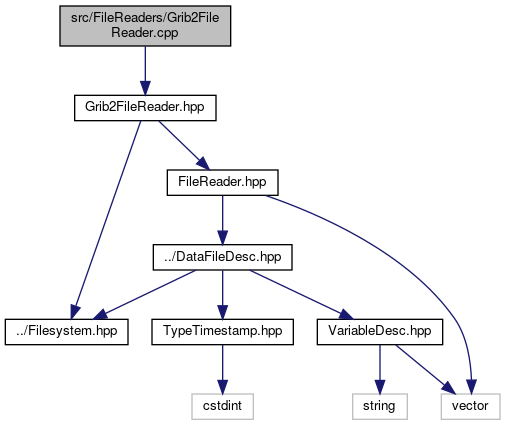
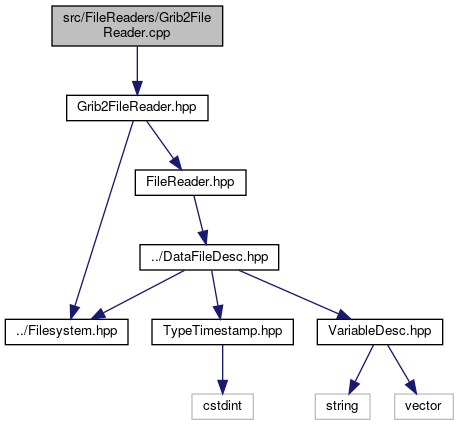
Remove useless includes

diff --git a/docs/code-docs/_n_c_file_reader_8hpp_source.html b/docs/code-docs/_n_c_file_reader_8hpp_source.html
@@ -85,18 +85,18 @@ $(document).ready(function(){initNavTree('_n_c_file_reader_8hpp_source.html','')
 <div class="title">NCFileReader.hpp</div>  </div>
 </div><!--header-->
 <div class="contents">
-<a href="_n_c_file_reader_8hpp.html">Go to the documentation of this file.</a><div class="fragment"><div class="line"><a name="l00001"></a><span class="lineno">    1</span>&#160;<span class="preprocessor">#pragma once</span></div><div class="line"><a name="l00002"></a><span class="lineno">    2</span>&#160;</div><div class="line"><a name="l00003"></a><span class="lineno">    3</span>&#160;<span class="preprocessor">#include &quot;../Filesystem.hpp&quot;</span></div><div class="line"><a name="l00004"></a><span class="lineno">    4</span>&#160;<span class="preprocessor">#include &quot;<a class="code" href="_file_reader_8hpp.html">FileReader.hpp</a>&quot;</span></div><div class="line"><a name="l00005"></a><span class="lineno">    5</span>&#160;</div><div class="line"><a name="l00006"></a><span class="lineno">    6</span>&#160;<span class="preprocessor">#include &quot;../VariableDesc.hpp&quot;</span></div><div class="line"><a name="l00007"></a><span class="lineno">    7</span>&#160;</div><div class="line"><a name="l00008"></a><span class="lineno">    8</span>&#160;<span class="preprocessor">#include &lt;iostream&gt;</span></div><div class="line"><a name="l00009"></a><span class="lineno">    9</span>&#160;</div><div class="line"><a name="l00010"></a><span class="lineno">   10</span>&#160;<span class="preprocessor">#include &lt;ncFile.h&gt;</span></div><div class="line"><a name="l00011"></a><span class="lineno">   11</span>&#160;</div><div class="line"><a name="l00012"></a><span class="lineno">   12</span>&#160;<span class="keyword">namespace </span><a class="code" href="namespacetsm.html">tsm</a> {</div><div class="line"><a name="l00013"></a><span class="lineno">   13</span>&#160;</div><div class="line"><a name="l00014"></a><span class="lineno"><a class="line" href="classtsm_1_1_n_c_file_reader.html">   14</a></span>&#160;<span class="keyword">class </span><a class="code" href="classtsm_1_1_n_c_file_reader.html">NCFileReader</a> : <span class="keyword">public</span> <a class="code" href="classtsm_1_1_file_reader.html">FileReader</a>&lt;NCFileReader&gt; {</div><div class="line"><a name="l00015"></a><span class="lineno">   15</span>&#160;</div><div class="line"><a name="l00016"></a><span class="lineno">   16</span>&#160;<span class="keyword">public</span>:</div><div class="line"><a name="l00018"></a><span class="lineno">   18</span>&#160;    <span class="keyword">explicit</span> <a class="code" href="classtsm_1_1_n_c_file_reader.html#afe8ae88886090271f4f08e64ac31796c">NCFileReader</a>(<span class="keyword">const</span> fs::path&amp; path);</div><div class="line"><a name="l00020"></a><span class="lineno"><a class="line" href="classtsm_1_1_n_c_file_reader.html#af691351ae7564772d1e5359e6214b0c8">   20</a></span>&#160;    <a class="code" href="classtsm_1_1_n_c_file_reader.html#af691351ae7564772d1e5359e6214b0c8">~NCFileReader</a>() {</div><div class="line"><a name="l00021"></a><span class="lineno">   21</span>&#160;        <a class="code" href="classtsm_1_1_n_c_file_reader.html#a5860b59f3a042eee4a4273d472736309">m_file</a>.close();</div><div class="line"><a name="l00022"></a><span class="lineno">   22</span>&#160;    }</div><div class="line"><a name="l00023"></a><span class="lineno">   23</span>&#160;</div><div class="line"><a name="l00025"></a><span class="lineno">   25</span>&#160;    [[nodiscard]] <a class="code" href="structtsm_1_1ds_1_1_data_file_desc.html">ds::DataFileDesc</a> <a class="code" href="classtsm_1_1_n_c_file_reader.html#a561db26ce7b25d3a05a313b258aaa1d8">getDataFileDesc_impl</a>();</div><div class="line"><a name="l00026"></a><span class="lineno">   26</span>&#160;</div><div class="line"><a name="l00027"></a><span class="lineno">   27</span>&#160;<span class="keyword">private</span>:</div><div class="line"><a name="l00029"></a><span class="lineno">   29</span>&#160;    [[nodiscard]] <span class="keywordtype">bool</span> <a class="code" href="classtsm_1_1_n_c_file_reader.html#a14559d462b599c6c3f5d9c4ed57d2ed1">open_file</a>();</div><div class="line"><a name="l00031"></a><span class="lineno">   31</span>&#160;    [[nodiscard]] std::string <a class="code" href="classtsm_1_1_n_c_file_reader.html#a5b162c66cf7e38895c547f41f69adec2">findTimeDim</a>() <span class="keyword">const</span>;</div><div class="line"><a name="l00033"></a><span class="lineno">   33</span>&#160;    [[nodiscard]] std::vector&lt;ds::VariableDesc&gt; <a class="code" href="classtsm_1_1_n_c_file_reader.html#adfd41c88899c811b53477791e4b715b6">getNCFileVariables</a>() <span class="keyword">const</span>;</div><div class="line"><a name="l00035"></a><span class="lineno">   35</span>&#160;    [[nodiscard]] std::vector&lt;ds::timestamp_t&gt; <a class="code" href="classtsm_1_1_n_c_file_reader.html#aba4f8bc51a05de7d66cddde18cd08f93">getTimestampValues</a>() <span class="keyword">const</span>;</div><div class="line"><a name="l00036"></a><span class="lineno">   36</span>&#160;</div><div class="line"><a name="l00037"></a><span class="lineno"><a class="line" href="classtsm_1_1_n_c_file_reader.html#ac164eede7401f24b1120711d7e878f29">   37</a></span>&#160;    <span class="keyword">const</span> fs::path <a class="code" href="classtsm_1_1_n_c_file_reader.html#ac164eede7401f24b1120711d7e878f29">m_path</a>;</div><div class="line"><a name="l00038"></a><span class="lineno"><a class="line" href="classtsm_1_1_n_c_file_reader.html#a5860b59f3a042eee4a4273d472736309">   38</a></span>&#160;    netCDF::NcFile <a class="code" href="classtsm_1_1_n_c_file_reader.html#a5860b59f3a042eee4a4273d472736309">m_file</a>;</div><div class="line"><a name="l00039"></a><span class="lineno">   39</span>&#160;};</div><div class="line"><a name="l00040"></a><span class="lineno">   40</span>&#160;</div><div class="line"><a name="l00041"></a><span class="lineno">   41</span>&#160;} <span class="comment">// namespace tsm</span></div><div class="ttc" id="classtsm_1_1_n_c_file_reader_html_a5b162c66cf7e38895c547f41f69adec2"><div class="ttname"><a href="classtsm_1_1_n_c_file_reader.html#a5b162c66cf7e38895c547f41f69adec2">tsm::NCFileReader::findTimeDim</a></div><div class="ttdeci">std::string findTimeDim() const</div><div class="ttdef"><b>Definition:</b> NCFileReader.cpp:49</div></div>
-<div class="ttc" id="classtsm_1_1_n_c_file_reader_html_a5860b59f3a042eee4a4273d472736309"><div class="ttname"><a href="classtsm_1_1_n_c_file_reader.html#a5860b59f3a042eee4a4273d472736309">tsm::NCFileReader::m_file</a></div><div class="ttdeci">netCDF::NcFile m_file</div><div class="ttdef"><b>Definition:</b> NCFileReader.hpp:38</div></div>
+<a href="_n_c_file_reader_8hpp.html">Go to the documentation of this file.</a><div class="fragment"><div class="line"><a name="l00001"></a><span class="lineno">    1</span>&#160;<span class="preprocessor">#pragma once</span></div><div class="line"><a name="l00002"></a><span class="lineno">    2</span>&#160;</div><div class="line"><a name="l00003"></a><span class="lineno">    3</span>&#160;<span class="preprocessor">#include &quot;<a class="code" href="_file_reader_8hpp.html">FileReader.hpp</a>&quot;</span></div><div class="line"><a name="l00004"></a><span class="lineno">    4</span>&#160;</div><div class="line"><a name="l00005"></a><span class="lineno">    5</span>&#160;<span class="preprocessor">#include &quot;../VariableDesc.hpp&quot;</span></div><div class="line"><a name="l00006"></a><span class="lineno">    6</span>&#160;</div><div class="line"><a name="l00007"></a><span class="lineno">    7</span>&#160;<span class="preprocessor">#include &lt;iostream&gt;</span></div><div class="line"><a name="l00008"></a><span class="lineno">    8</span>&#160;</div><div class="line"><a name="l00009"></a><span class="lineno">    9</span>&#160;<span class="preprocessor">#include &lt;ncFile.h&gt;</span></div><div class="line"><a name="l00010"></a><span class="lineno">   10</span>&#160;</div><div class="line"><a name="l00011"></a><span class="lineno">   11</span>&#160;<span class="keyword">namespace </span><a class="code" href="namespacetsm.html">tsm</a> {</div><div class="line"><a name="l00012"></a><span class="lineno">   12</span>&#160;</div><div class="line"><a name="l00013"></a><span class="lineno"><a class="line" href="classtsm_1_1_n_c_file_reader.html">   13</a></span>&#160;<span class="keyword">class </span><a class="code" href="classtsm_1_1_n_c_file_reader.html">NCFileReader</a> : <span class="keyword">public</span> <a class="code" href="classtsm_1_1_file_reader.html">FileReader</a>&lt;NCFileReader&gt; {</div><div class="line"><a name="l00014"></a><span class="lineno">   14</span>&#160;</div><div class="line"><a name="l00015"></a><span class="lineno">   15</span>&#160;<span class="keyword">public</span>:</div><div class="line"><a name="l00017"></a><span class="lineno">   17</span>&#160;    <span class="keyword">explicit</span> <a class="code" href="classtsm_1_1_n_c_file_reader.html#afe8ae88886090271f4f08e64ac31796c">NCFileReader</a>(<span class="keyword">const</span> fs::path&amp; path);</div><div class="line"><a name="l00019"></a><span class="lineno"><a class="line" href="classtsm_1_1_n_c_file_reader.html#af691351ae7564772d1e5359e6214b0c8">   19</a></span>&#160;    <a class="code" href="classtsm_1_1_n_c_file_reader.html#af691351ae7564772d1e5359e6214b0c8">~NCFileReader</a>() {</div><div class="line"><a name="l00020"></a><span class="lineno">   20</span>&#160;        <a class="code" href="classtsm_1_1_n_c_file_reader.html#a5860b59f3a042eee4a4273d472736309">m_file</a>.close();</div><div class="line"><a name="l00021"></a><span class="lineno">   21</span>&#160;    }</div><div class="line"><a name="l00022"></a><span class="lineno">   22</span>&#160;</div><div class="line"><a name="l00024"></a><span class="lineno">   24</span>&#160;    [[nodiscard]] <a class="code" href="structtsm_1_1ds_1_1_data_file_desc.html">ds::DataFileDesc</a> <a class="code" href="classtsm_1_1_n_c_file_reader.html#a561db26ce7b25d3a05a313b258aaa1d8">getDataFileDesc_impl</a>();</div><div class="line"><a name="l00025"></a><span class="lineno">   25</span>&#160;</div><div class="line"><a name="l00026"></a><span class="lineno">   26</span>&#160;<span class="keyword">private</span>:</div><div class="line"><a name="l00028"></a><span class="lineno">   28</span>&#160;    [[nodiscard]] <span class="keywordtype">bool</span> <a class="code" href="classtsm_1_1_n_c_file_reader.html#a14559d462b599c6c3f5d9c4ed57d2ed1">open_file</a>();</div><div class="line"><a name="l00030"></a><span class="lineno">   30</span>&#160;    [[nodiscard]] std::string <a class="code" href="classtsm_1_1_n_c_file_reader.html#a5b162c66cf7e38895c547f41f69adec2">findTimeDim</a>() <span class="keyword">const</span>;</div><div class="line"><a name="l00032"></a><span class="lineno">   32</span>&#160;    [[nodiscard]] std::vector&lt;ds::VariableDesc&gt; <a class="code" href="classtsm_1_1_n_c_file_reader.html#adfd41c88899c811b53477791e4b715b6">getNCFileVariables</a>() <span class="keyword">const</span>;</div><div class="line"><a name="l00034"></a><span class="lineno">   34</span>&#160;    [[nodiscard]] std::vector&lt;ds::timestamp_t&gt; <a class="code" href="classtsm_1_1_n_c_file_reader.html#aba4f8bc51a05de7d66cddde18cd08f93">getTimestampValues</a>() <span class="keyword">const</span>;</div><div class="line"><a name="l00035"></a><span class="lineno">   35</span>&#160;</div><div class="line"><a name="l00036"></a><span class="lineno"><a class="line" href="classtsm_1_1_n_c_file_reader.html#ac164eede7401f24b1120711d7e878f29">   36</a></span>&#160;    <span class="keyword">const</span> fs::path <a class="code" href="classtsm_1_1_n_c_file_reader.html#ac164eede7401f24b1120711d7e878f29">m_path</a>;</div><div class="line"><a name="l00037"></a><span class="lineno"><a class="line" href="classtsm_1_1_n_c_file_reader.html#a5860b59f3a042eee4a4273d472736309">   37</a></span>&#160;    netCDF::NcFile <a class="code" href="classtsm_1_1_n_c_file_reader.html#a5860b59f3a042eee4a4273d472736309">m_file</a>;</div><div class="line"><a name="l00038"></a><span class="lineno">   38</span>&#160;};</div><div class="line"><a name="l00039"></a><span class="lineno">   39</span>&#160;</div><div class="line"><a name="l00040"></a><span class="lineno">   40</span>&#160;} <span class="comment">// namespace tsm</span></div><div class="ttc" id="classtsm_1_1_n_c_file_reader_html_a5b162c66cf7e38895c547f41f69adec2"><div class="ttname"><a href="classtsm_1_1_n_c_file_reader.html#a5b162c66cf7e38895c547f41f69adec2">tsm::NCFileReader::findTimeDim</a></div><div class="ttdeci">std::string findTimeDim() const</div><div class="ttdef"><b>Definition:</b> NCFileReader.cpp:49</div></div>
+<div class="ttc" id="classtsm_1_1_n_c_file_reader_html_a5860b59f3a042eee4a4273d472736309"><div class="ttname"><a href="classtsm_1_1_n_c_file_reader.html#a5860b59f3a042eee4a4273d472736309">tsm::NCFileReader::m_file</a></div><div class="ttdeci">netCDF::NcFile m_file</div><div class="ttdef"><b>Definition:</b> NCFileReader.hpp:37</div></div>
 <div class="ttc" id="structtsm_1_1ds_1_1_data_file_desc_html"><div class="ttname"><a href="structtsm_1_1ds_1_1_data_file_desc.html">tsm::ds::DataFileDesc</a></div><div class="ttdef"><b>Definition:</b> DataFileDesc.hpp:11</div></div>
 <div class="ttc" id="classtsm_1_1_n_c_file_reader_html_aba4f8bc51a05de7d66cddde18cd08f93"><div class="ttname"><a href="classtsm_1_1_n_c_file_reader.html#aba4f8bc51a05de7d66cddde18cd08f93">tsm::NCFileReader::getTimestampValues</a></div><div class="ttdeci">std::vector&lt; ds::timestamp_t &gt; getTimestampValues() const</div><div class="ttdef"><b>Definition:</b> NCFileReader.cpp:109</div></div>
 <div class="ttc" id="classtsm_1_1_n_c_file_reader_html_a561db26ce7b25d3a05a313b258aaa1d8"><div class="ttname"><a href="classtsm_1_1_n_c_file_reader.html#a561db26ce7b25d3a05a313b258aaa1d8">tsm::NCFileReader::getDataFileDesc_impl</a></div><div class="ttdeci">ds::DataFileDesc getDataFileDesc_impl()</div><div class="ttdef"><b>Definition:</b> NCFileReader.cpp:14</div></div>
-<div class="ttc" id="classtsm_1_1_n_c_file_reader_html"><div class="ttname"><a href="classtsm_1_1_n_c_file_reader.html">tsm::NCFileReader</a></div><div class="ttdef"><b>Definition:</b> NCFileReader.hpp:14</div></div>
+<div class="ttc" id="classtsm_1_1_n_c_file_reader_html"><div class="ttname"><a href="classtsm_1_1_n_c_file_reader.html">tsm::NCFileReader</a></div><div class="ttdef"><b>Definition:</b> NCFileReader.hpp:13</div></div>
 <div class="ttc" id="namespacetsm_html"><div class="ttname"><a href="namespacetsm.html">tsm</a></div><div class="ttdef"><b>Definition:</b> CommandLine.cpp:6</div></div>
 <div class="ttc" id="classtsm_1_1_n_c_file_reader_html_adfd41c88899c811b53477791e4b715b6"><div class="ttname"><a href="classtsm_1_1_n_c_file_reader.html#adfd41c88899c811b53477791e4b715b6">tsm::NCFileReader::getNCFileVariables</a></div><div class="ttdeci">std::vector&lt; ds::VariableDesc &gt; getNCFileVariables() const</div><div class="ttdef"><b>Definition:</b> NCFileReader.cpp:60</div></div>
-<div class="ttc" id="classtsm_1_1_n_c_file_reader_html_af691351ae7564772d1e5359e6214b0c8"><div class="ttname"><a href="classtsm_1_1_n_c_file_reader.html#af691351ae7564772d1e5359e6214b0c8">tsm::NCFileReader::~NCFileReader</a></div><div class="ttdeci">~NCFileReader()</div><div class="ttdef"><b>Definition:</b> NCFileReader.hpp:20</div></div>
-<div class="ttc" id="classtsm_1_1_file_reader_html"><div class="ttname"><a href="classtsm_1_1_file_reader.html">tsm::FileReader</a></div><div class="ttdef"><b>Definition:</b> FileReader.hpp:18</div></div>
+<div class="ttc" id="classtsm_1_1_n_c_file_reader_html_af691351ae7564772d1e5359e6214b0c8"><div class="ttname"><a href="classtsm_1_1_n_c_file_reader.html#af691351ae7564772d1e5359e6214b0c8">tsm::NCFileReader::~NCFileReader</a></div><div class="ttdeci">~NCFileReader()</div><div class="ttdef"><b>Definition:</b> NCFileReader.hpp:19</div></div>
+<div class="ttc" id="classtsm_1_1_file_reader_html"><div class="ttname"><a href="classtsm_1_1_file_reader.html">tsm::FileReader</a></div><div class="ttdef"><b>Definition:</b> FileReader.hpp:16</div></div>
 <div class="ttc" id="_file_reader_8hpp_html"><div class="ttname"><a href="_file_reader_8hpp.html">FileReader.hpp</a></div></div>
-<div class="ttc" id="classtsm_1_1_n_c_file_reader_html_ac164eede7401f24b1120711d7e878f29"><div class="ttname"><a href="classtsm_1_1_n_c_file_reader.html#ac164eede7401f24b1120711d7e878f29">tsm::NCFileReader::m_path</a></div><div class="ttdeci">const fs::path m_path</div><div class="ttdef"><b>Definition:</b> NCFileReader.hpp:37</div></div>
+<div class="ttc" id="classtsm_1_1_n_c_file_reader_html_ac164eede7401f24b1120711d7e878f29"><div class="ttname"><a href="classtsm_1_1_n_c_file_reader.html#ac164eede7401f24b1120711d7e878f29">tsm::NCFileReader::m_path</a></div><div class="ttdeci">const fs::path m_path</div><div class="ttdef"><b>Definition:</b> NCFileReader.hpp:36</div></div>
 <div class="ttc" id="classtsm_1_1_n_c_file_reader_html_afe8ae88886090271f4f08e64ac31796c"><div class="ttname"><a href="classtsm_1_1_n_c_file_reader.html#afe8ae88886090271f4f08e64ac31796c">tsm::NCFileReader::NCFileReader</a></div><div class="ttdeci">NCFileReader(const fs::path &amp;path)</div><div class="ttdef"><b>Definition:</b> NCFileReader.cpp:11</div></div>
 <div class="ttc" id="classtsm_1_1_n_c_file_reader_html_a14559d462b599c6c3f5d9c4ed57d2ed1"><div class="ttname"><a href="classtsm_1_1_n_c_file_reader.html#a14559d462b599c6c3f5d9c4ed57d2ed1">tsm::NCFileReader::open_file</a></div><div class="ttdeci">bool open_file()</div><div class="ttdef"><b>Definition:</b> NCFileReader.cpp:31</div></div>
 </div><!-- fragment --></div><!-- contents -->

diff --git a/docs/code-docs/_file_reader_8hpp_source.html b/docs/code-docs/_file_reader_8hpp_source.html
@@ -85,12 +85,12 @@ $(document).ready(function(){initNavTree('_file_reader_8hpp_source.html','');});
 <div class="title">FileReader.hpp</div>  </div>
 </div><!--header-->
 <div class="contents">
-<a href="_file_reader_8hpp.html">Go to the documentation of this file.</a><div class="fragment"><div class="line"><a name="l00001"></a><span class="lineno">    1</span>&#160;<span class="preprocessor">#pragma once</span></div><div class="line"><a name="l00002"></a><span class="lineno">    2</span>&#160;</div><div class="line"><a name="l00003"></a><span class="lineno">    3</span>&#160;<span class="preprocessor">#include &lt;vector&gt;</span></div><div class="line"><a name="l00004"></a><span class="lineno">    4</span>&#160;</div><div class="line"><a name="l00005"></a><span class="lineno">    5</span>&#160;<span class="preprocessor">#include &quot;../DataFileDesc.hpp&quot;</span></div><div class="line"><a name="l00006"></a><span class="lineno">    6</span>&#160;</div><div class="line"><a name="l00007"></a><span class="lineno">    7</span>&#160;<span class="comment">// Use the Curiously Recurring Template Pattern</span></div><div class="line"><a name="l00008"></a><span class="lineno">    8</span>&#160;<span class="comment">// as a compile-time replacement for standard</span></div><div class="line"><a name="l00009"></a><span class="lineno">    9</span>&#160;<span class="comment">// inheritance. CRTP is much faster since all</span></div><div class="line"><a name="l00010"></a><span class="lineno">   10</span>&#160;<span class="comment">// &quot;polumorphism&quot; is resolved during compile</span></div><div class="line"><a name="l00011"></a><span class="lineno">   11</span>&#160;<span class="comment">// time and not run time.</span></div><div class="line"><a name="l00012"></a><span class="lineno">   12</span>&#160;<span class="comment">// https://stackoverflow.com/a/26718782/2231969</span></div><div class="line"><a name="l00013"></a><span class="lineno">   13</span>&#160;</div><div class="line"><a name="l00014"></a><span class="lineno">   14</span>&#160;</div><div class="line"><a name="l00015"></a><span class="lineno">   15</span>&#160;<span class="keyword">namespace </span><a class="code" href="namespacetsm.html">tsm</a> {</div><div class="line"><a name="l00016"></a><span class="lineno">   16</span>&#160;</div><div class="line"><a name="l00017"></a><span class="lineno">   17</span>&#160;<span class="keyword">template</span>&lt;<span class="keyword">class</span> ReaderSub<span class="keyword">class</span>&gt;</div><div class="line"><a name="l00018"></a><span class="lineno"><a class="line" href="classtsm_1_1_file_reader.html">   18</a></span>&#160;<span class="keyword">class </span><a class="code" href="classtsm_1_1_file_reader.html">FileReader</a> {</div><div class="line"><a name="l00019"></a><span class="lineno">   19</span>&#160;</div><div class="line"><a name="l00020"></a><span class="lineno">   20</span>&#160;<span class="keyword">public</span>:</div><div class="line"><a name="l00021"></a><span class="lineno">   21</span>&#160;    <a class="code" href="classtsm_1_1_file_reader.html#ab47cc1669d7cc9afda8e2229ecf195ef">FileReader</a>() = <span class="keywordflow">default</span>;</div><div class="line"><a name="l00022"></a><span class="lineno">   22</span>&#160;    <a class="code" href="classtsm_1_1_file_reader.html#a79d00afcd8f833a9001ae5850dfc5ccd">~FileReader</a>() = <span class="keywordflow">default</span>;</div><div class="line"><a name="l00023"></a><span class="lineno">   23</span>&#160;</div><div class="line"><a name="l00024"></a><span class="lineno"><a class="line" href="classtsm_1_1_file_reader.html#a5a14686bf9f2da4baba0b771fbaa1d65">   24</a></span>&#160;    [[nodiscard]] <a class="code" href="structtsm_1_1ds_1_1_data_file_desc.html">ds::DataFileDesc</a> <a class="code" href="classtsm_1_1_file_reader.html#a5a14686bf9f2da4baba0b771fbaa1d65">getDataFileDesc</a>() {</div><div class="line"><a name="l00025"></a><span class="lineno">   25</span>&#160;        <span class="keywordflow">return</span> <span class="keyword">static_cast&lt;</span>ReaderSubclass*<span class="keyword">&gt;</span>(<span class="keyword">this</span>)-&gt;getDataFileDesc_impl();</div><div class="line"><a name="l00026"></a><span class="lineno">   26</span>&#160;    }</div><div class="line"><a name="l00027"></a><span class="lineno">   27</span>&#160;</div><div class="line"><a name="l00028"></a><span class="lineno">   28</span>&#160;};</div><div class="line"><a name="l00029"></a><span class="lineno">   29</span>&#160;</div><div class="line"><a name="l00030"></a><span class="lineno">   30</span>&#160;} <span class="comment">// namespace tsm</span></div><div class="ttc" id="classtsm_1_1_file_reader_html_a5a14686bf9f2da4baba0b771fbaa1d65"><div class="ttname"><a href="classtsm_1_1_file_reader.html#a5a14686bf9f2da4baba0b771fbaa1d65">tsm::FileReader::getDataFileDesc</a></div><div class="ttdeci">ds::DataFileDesc getDataFileDesc()</div><div class="ttdef"><b>Definition:</b> FileReader.hpp:24</div></div>
+<a href="_file_reader_8hpp.html">Go to the documentation of this file.</a><div class="fragment"><div class="line"><a name="l00001"></a><span class="lineno">    1</span>&#160;<span class="preprocessor">#pragma once</span></div><div class="line"><a name="l00002"></a><span class="lineno">    2</span>&#160;</div><div class="line"><a name="l00003"></a><span class="lineno">    3</span>&#160;<span class="preprocessor">#include &quot;../DataFileDesc.hpp&quot;</span></div><div class="line"><a name="l00004"></a><span class="lineno">    4</span>&#160;</div><div class="line"><a name="l00005"></a><span class="lineno">    5</span>&#160;<span class="comment">// Use the Curiously Recurring Template Pattern</span></div><div class="line"><a name="l00006"></a><span class="lineno">    6</span>&#160;<span class="comment">// as a compile-time replacement for standard</span></div><div class="line"><a name="l00007"></a><span class="lineno">    7</span>&#160;<span class="comment">// inheritance. CRTP is much faster since all</span></div><div class="line"><a name="l00008"></a><span class="lineno">    8</span>&#160;<span class="comment">// &quot;polumorphism&quot; is resolved during compile</span></div><div class="line"><a name="l00009"></a><span class="lineno">    9</span>&#160;<span class="comment">// time and not run time.</span></div><div class="line"><a name="l00010"></a><span class="lineno">   10</span>&#160;<span class="comment">// https://stackoverflow.com/a/26718782/2231969</span></div><div class="line"><a name="l00011"></a><span class="lineno">   11</span>&#160;</div><div class="line"><a name="l00012"></a><span class="lineno">   12</span>&#160;</div><div class="line"><a name="l00013"></a><span class="lineno">   13</span>&#160;<span class="keyword">namespace </span><a class="code" href="namespacetsm.html">tsm</a> {</div><div class="line"><a name="l00014"></a><span class="lineno">   14</span>&#160;</div><div class="line"><a name="l00015"></a><span class="lineno">   15</span>&#160;<span class="keyword">template</span>&lt;<span class="keyword">class</span> ReaderSub<span class="keyword">class</span>&gt;</div><div class="line"><a name="l00016"></a><span class="lineno"><a class="line" href="classtsm_1_1_file_reader.html">   16</a></span>&#160;<span class="keyword">class </span><a class="code" href="classtsm_1_1_file_reader.html">FileReader</a> {</div><div class="line"><a name="l00017"></a><span class="lineno">   17</span>&#160;</div><div class="line"><a name="l00018"></a><span class="lineno">   18</span>&#160;<span class="keyword">public</span>:</div><div class="line"><a name="l00019"></a><span class="lineno">   19</span>&#160;    <a class="code" href="classtsm_1_1_file_reader.html#ab47cc1669d7cc9afda8e2229ecf195ef">FileReader</a>() = <span class="keywordflow">default</span>;</div><div class="line"><a name="l00020"></a><span class="lineno">   20</span>&#160;    <a class="code" href="classtsm_1_1_file_reader.html#a79d00afcd8f833a9001ae5850dfc5ccd">~FileReader</a>() = <span class="keywordflow">default</span>;</div><div class="line"><a name="l00021"></a><span class="lineno">   21</span>&#160;</div><div class="line"><a name="l00022"></a><span class="lineno"><a class="line" href="classtsm_1_1_file_reader.html#a5a14686bf9f2da4baba0b771fbaa1d65">   22</a></span>&#160;    [[nodiscard]] <a class="code" href="structtsm_1_1ds_1_1_data_file_desc.html">ds::DataFileDesc</a> <a class="code" href="classtsm_1_1_file_reader.html#a5a14686bf9f2da4baba0b771fbaa1d65">getDataFileDesc</a>() {</div><div class="line"><a name="l00023"></a><span class="lineno">   23</span>&#160;        <span class="keywordflow">return</span> <span class="keyword">static_cast&lt;</span>ReaderSubclass*<span class="keyword">&gt;</span>(<span class="keyword">this</span>)-&gt;getDataFileDesc_impl();</div><div class="line"><a name="l00024"></a><span class="lineno">   24</span>&#160;    }</div><div class="line"><a name="l00025"></a><span class="lineno">   25</span>&#160;</div><div class="line"><a name="l00026"></a><span class="lineno">   26</span>&#160;};</div><div class="line"><a name="l00027"></a><span class="lineno">   27</span>&#160;</div><div class="line"><a name="l00028"></a><span class="lineno">   28</span>&#160;} <span class="comment">// namespace tsm</span></div><div class="ttc" id="classtsm_1_1_file_reader_html_a5a14686bf9f2da4baba0b771fbaa1d65"><div class="ttname"><a href="classtsm_1_1_file_reader.html#a5a14686bf9f2da4baba0b771fbaa1d65">tsm::FileReader::getDataFileDesc</a></div><div class="ttdeci">ds::DataFileDesc getDataFileDesc()</div><div class="ttdef"><b>Definition:</b> FileReader.hpp:22</div></div>
 <div class="ttc" id="structtsm_1_1ds_1_1_data_file_desc_html"><div class="ttname"><a href="structtsm_1_1ds_1_1_data_file_desc.html">tsm::ds::DataFileDesc</a></div><div class="ttdef"><b>Definition:</b> DataFileDesc.hpp:11</div></div>
 <div class="ttc" id="classtsm_1_1_file_reader_html_a79d00afcd8f833a9001ae5850dfc5ccd"><div class="ttname"><a href="classtsm_1_1_file_reader.html#a79d00afcd8f833a9001ae5850dfc5ccd">tsm::FileReader::~FileReader</a></div><div class="ttdeci">~FileReader()=default</div></div>
 <div class="ttc" id="namespacetsm_html"><div class="ttname"><a href="namespacetsm.html">tsm</a></div><div class="ttdef"><b>Definition:</b> CommandLine.cpp:6</div></div>
 <div class="ttc" id="classtsm_1_1_file_reader_html_ab47cc1669d7cc9afda8e2229ecf195ef"><div class="ttname"><a href="classtsm_1_1_file_reader.html#ab47cc1669d7cc9afda8e2229ecf195ef">tsm::FileReader::FileReader</a></div><div class="ttdeci">FileReader()=default</div></div>
-<div class="ttc" id="classtsm_1_1_file_reader_html"><div class="ttname"><a href="classtsm_1_1_file_reader.html">tsm::FileReader</a></div><div class="ttdef"><b>Definition:</b> FileReader.hpp:18</div></div>
+<div class="ttc" id="classtsm_1_1_file_reader_html"><div class="ttname"><a href="classtsm_1_1_file_reader.html">tsm::FileReader</a></div><div class="ttdef"><b>Definition:</b> FileReader.hpp:16</div></div>
 </div><!-- fragment --></div><!-- contents -->
 </div><!-- doc-content -->
 <!-- start footer part -->

diff --git a/docs/code-docs/_filesystem_8hpp.html b/docs/code-docs/_filesystem_8hpp.html
@@ -92,18 +92,18 @@ This graph shows which files directly or indirectly include this file:</div>
 <map name="src_2_filesystem_8hppdep" id="src_2_filesystem_8hppdep">
 <area shape="rect" id="node2" href="_command_line_8hpp.html" title="src/CommandLine.hpp" alt="" coords="64,155,217,181"/>
 <area shape="rect" id="node4" href="_timestamp_mapper_8hpp.html" title="src/TimestampMapper.hpp" alt="" coords="203,237,380,263"/>
-<area shape="rect" id="node7" href="_crawl_directory_8hpp.html" title="src/CrawlDirectory.hpp" alt="" coords="656,80,812,107"/>
-<area shape="rect" id="node8" href="_database_8hpp.html" title="src/Database.hpp" alt="" coords="331,155,457,181"/>
-<area shape="rect" id="node10" href="_dataset_desc_8hpp.html" title="src/DatasetDesc.hpp" alt="" coords="482,155,629,181"/>
-<area shape="rect" id="node12" href="_data_file_desc_8hpp.html" title="src/DataFileDesc.hpp" alt="" coords="482,80,631,107"/>
-<area shape="rect" id="node14" href="_n_c_file_reader_8hpp.html" title="src/FileReaders/NCFileReader.hpp" alt="" coords="706,237,933,263"/>
+<area shape="rect" id="node7" href="_crawl_directory_8hpp.html" title="src/CrawlDirectory.hpp" alt="" coords="544,80,700,107"/>
+<area shape="rect" id="node8" href="_database_8hpp.html" title="src/Database.hpp" alt="" coords="335,155,461,181"/>
+<area shape="rect" id="node10" href="_dataset_desc_8hpp.html" title="src/DatasetDesc.hpp" alt="" coords="485,155,631,181"/>
+<area shape="rect" id="node12" href="_data_file_desc_8hpp.html" title="src/DataFileDesc.hpp" alt="" coords="725,80,874,107"/>
 <area shape="rect" id="node16" href="_grib2_file_reader_8hpp.html" title="src/FileReaders/Grib2File\lReader.hpp" alt="" coords="957,229,1127,271"/>
 <area shape="rect" id="node3" href="_command_line_8cpp.html" title="src/CommandLine.cpp" alt="" coords="25,237,179,263"/>
 <area shape="rect" id="node5" href="main_8cpp.html" title="src/main.cpp" alt="" coords="80,326,177,353"/>
 <area shape="rect" id="node6" href="_timestamp_mapper_8cpp.html" title="src/TimestampMapper.cpp" alt="" coords="343,326,520,353"/>
 <area shape="rect" id="node9" href="_database_8cpp.html" title="src/Database.cpp" alt="" coords="405,237,530,263"/>
 <area shape="rect" id="node11" href="_dataset_desc_8cpp.html" title="src/DatasetDesc.cpp" alt="" coords="545,326,691,353"/>
-<area shape="rect" id="node13" href="_file_reader_8hpp.html" title="src/FileReaders/FileReader.hpp" alt="" coords="707,155,913,181"/>
+<area shape="rect" id="node13" href="_file_reader_8hpp.html" title="src/FileReaders/FileReader.hpp" alt="" coords="716,155,923,181"/>
+<area shape="rect" id="node14" href="_n_c_file_reader_8hpp.html" title="src/FileReaders/NCFileReader.hpp" alt="" coords="706,237,933,263"/>
 <area shape="rect" id="node15" href="_n_c_file_reader_8cpp.html" title="src/FileReaders/NCFileReader.cpp" alt="" coords="715,326,942,353"/>
 <area shape="rect" id="node17" href="_grib2_file_reader_8cpp.html" title="src/FileReaders/Grib2File\lReader.cpp" alt="" coords="966,319,1137,360"/>
 </map>

diff --git a/docs/code-docs/_n_c_file_reader_8hpp.html b/docs/code-docs/_n_c_file_reader_8hpp.html
@@ -88,8 +88,7 @@ $(document).ready(function(){initNavTree('_n_c_file_reader_8hpp.html','');});
 <div class="title">NCFileReader.hpp File Reference</div>  </div>
 </div><!--header-->
 <div class="contents">
-<div class="textblock"><code>#include &quot;<a class="el" href="_filesystem_8hpp_source.html">../Filesystem.hpp</a>&quot;</code><br />
-<code>#include &quot;<a class="el" href="_file_reader_8hpp_source.html">FileReader.hpp</a>&quot;</code><br />
+<div class="textblock"><code>#include &quot;<a class="el" href="_file_reader_8hpp_source.html">FileReader.hpp</a>&quot;</code><br />
 <code>#include &quot;<a class="el" href="_variable_desc_8hpp_source.html">../VariableDesc.hpp</a>&quot;</code><br />
 <code>#include &lt;iostream&gt;</code><br />
 <code>#include &lt;ncFile.h&gt;</code><br />
@@ -98,11 +97,11 @@ Include dependency graph for NCFileReader.hpp:</div>
 <div class="dyncontent">
 <div class="center"><img src="_n_c_file_reader_8hpp__incl.png" border="0" usemap="#src_2_file_readers_2_n_c_file_reader_8hpp" alt=""/></div>
 <map name="src_2_file_readers_2_n_c_file_reader_8hpp" id="src_2_file_readers_2_n_c_file_reader_8hpp">
-<area shape="rect" id="node2" href="_filesystem_8hpp.html" title="../Filesystem.hpp" alt="" coords="5,229,128,256"/>
-<area shape="rect" id="node3" href="_file_reader_8hpp.html" title="FileReader.hpp" alt="" coords="254,80,365,107"/>
-<area shape="rect" id="node8" href="_variable_desc_8hpp.html" title="VariableDesc.hpp" alt="" coords="368,229,493,256"/>
-<area shape="rect" id="node5" href="_data_file_desc_8hpp.html" title="../DataFileDesc.hpp" alt="" coords="155,155,293,181"/>
-<area shape="rect" id="node6" href="_type_timestamp_8hpp.html" title="TypeTimestamp.hpp" alt="" coords="152,229,293,256"/>
+<area shape="rect" id="node2" href="_file_reader_8hpp.html" title="FileReader.hpp" alt="" coords="205,80,315,107"/>
+<area shape="rect" id="node7" href="_variable_desc_8hpp.html" title="VariableDesc.hpp" alt="" coords="307,229,432,256"/>
+<area shape="rect" id="node3" href="_data_file_desc_8hpp.html" title="../DataFileDesc.hpp" alt="" coords="175,155,313,181"/>
+<area shape="rect" id="node4" href="_type_timestamp_8hpp.html" title="TypeTimestamp.hpp" alt="" coords="5,229,147,256"/>
+<area shape="rect" id="node6" href="_filesystem_8hpp.html" title="Filesystem.hpp" alt="" coords="171,229,282,256"/>
 </map>
 </div>
 </div><div class="textblock"><div class="dynheader">

diff --git a/docs/code-docs/_grib2_file_reader_8hpp_source.html b/docs/code-docs/_grib2_file_reader_8hpp_source.html
@@ -89,7 +89,7 @@ $(document).ready(function(){initNavTree('_grib2_file_reader_8hpp_source.html','
 <div class="ttc" id="classtsm_1_1_grib2_file_reader_html_a48a0b680b80fffc48a6765aafbdd0049"><div class="ttname"><a href="classtsm_1_1_grib2_file_reader.html#a48a0b680b80fffc48a6765aafbdd0049">tsm::Grib2FileReader::m_path</a></div><div class="ttdeci">const fs::path m_path</div><div class="ttdef"><b>Definition:</b> Grib2FileReader.hpp:19</div></div>
 <div class="ttc" id="structtsm_1_1ds_1_1_data_file_desc_html"><div class="ttname"><a href="structtsm_1_1ds_1_1_data_file_desc.html">tsm::ds::DataFileDesc</a></div><div class="ttdef"><b>Definition:</b> DataFileDesc.hpp:11</div></div>
 <div class="ttc" id="namespacetsm_html"><div class="ttname"><a href="namespacetsm.html">tsm</a></div><div class="ttdef"><b>Definition:</b> CommandLine.cpp:6</div></div>
-<div class="ttc" id="classtsm_1_1_file_reader_html"><div class="ttname"><a href="classtsm_1_1_file_reader.html">tsm::FileReader</a></div><div class="ttdef"><b>Definition:</b> FileReader.hpp:18</div></div>
+<div class="ttc" id="classtsm_1_1_file_reader_html"><div class="ttname"><a href="classtsm_1_1_file_reader.html">tsm::FileReader</a></div><div class="ttdef"><b>Definition:</b> FileReader.hpp:16</div></div>
 <div class="ttc" id="_file_reader_8hpp_html"><div class="ttname"><a href="_file_reader_8hpp.html">FileReader.hpp</a></div></div>
 <div class="ttc" id="classtsm_1_1_grib2_file_reader_html_aad34b991a8a9803fdca2d99356ed88ab"><div class="ttname"><a href="classtsm_1_1_grib2_file_reader.html#aad34b991a8a9803fdca2d99356ed88ab">tsm::Grib2FileReader::Grib2FileReader</a></div><div class="ttdeci">Grib2FileReader(const fs::path &amp;path)</div><div class="ttdef"><b>Definition:</b> Grib2FileReader.cpp:5</div></div>
 <div class="ttc" id="classtsm_1_1_grib2_file_reader_html_a66b9de1ddb7a310e55b690eecdcf27dc"><div class="ttname"><a href="classtsm_1_1_grib2_file_reader.html#a66b9de1ddb7a310e55b690eecdcf27dc">tsm::Grib2FileReader::getDataFileDesc_impl</a></div><div class="ttdeci">ds::DataFileDesc getDataFileDesc_impl()</div></div>

diff --git a/docs/code-docs/_file_reader_8hpp.html b/docs/code-docs/_file_reader_8hpp.html
@@ -88,17 +88,16 @@ $(document).ready(function(){initNavTree('_file_reader_8hpp.html','');});
 <div class="title">FileReader.hpp File Reference</div>  </div>
 </div><!--header-->
 <div class="contents">
-<div class="textblock"><code>#include &lt;vector&gt;</code><br />
-<code>#include &quot;<a class="el" href="_data_file_desc_8hpp_source.html">../DataFileDesc.hpp</a>&quot;</code><br />
+<div class="textblock"><code>#include &quot;<a class="el" href="_data_file_desc_8hpp_source.html">../DataFileDesc.hpp</a>&quot;</code><br />
 </div><div class="textblock"><div class="dynheader">
 Include dependency graph for FileReader.hpp:</div>
 <div class="dyncontent">
 <div class="center"><img src="_file_reader_8hpp__incl.png" border="0" usemap="#src_2_file_readers_2_file_reader_8hpp" alt=""/></div>
 <map name="src_2_file_readers_2_file_reader_8hpp" id="src_2_file_readers_2_file_reader_8hpp">
-<area shape="rect" id="node3" href="_data_file_desc_8hpp.html" title="../DataFileDesc.hpp" alt="" coords="157,80,295,107"/>
-<area shape="rect" id="node4" href="_type_timestamp_8hpp.html" title="TypeTimestamp.hpp" alt="" coords="378,155,519,181"/>
-<area shape="rect" id="node6" href="_filesystem_8hpp.html" title="Filesystem.hpp" alt="" coords="93,155,204,181"/>
-<area shape="rect" id="node7" href="_variable_desc_8hpp.html" title="VariableDesc.hpp" alt="" coords="229,155,354,181"/>
+<area shape="rect" id="node2" href="_data_file_desc_8hpp.html" title="../DataFileDesc.hpp" alt="" coords="157,80,296,107"/>
+<area shape="rect" id="node3" href="_type_timestamp_8hpp.html" title="TypeTimestamp.hpp" alt="" coords="5,155,147,181"/>
+<area shape="rect" id="node5" href="_filesystem_8hpp.html" title="Filesystem.hpp" alt="" coords="171,155,282,181"/>
+<area shape="rect" id="node6" href="_variable_desc_8hpp.html" title="VariableDesc.hpp" alt="" coords="307,155,432,181"/>
 </map>
 </div>
 </div><div class="textblock"><div class="dynheader">

diff --git a/docs/code-docs/_dataset_desc_8cpp.html b/docs/code-docs/_dataset_desc_8cpp.html
@@ -95,11 +95,14 @@ Include dependency graph for DatasetDesc.cpp:</div>
 <div class="dyncontent">
 <div class="center"><img src="_dataset_desc_8cpp__incl.png" border="0" usemap="#src_2_dataset_desc_8cpp" alt=""/></div>
 <map name="src_2_dataset_desc_8cpp" id="src_2_dataset_desc_8cpp">
-<area shape="rect" id="node2" href="_dataset_desc_8hpp.html" title="DatasetDesc.hpp" alt="" coords="231,80,355,107"/>
-<area shape="rect" id="node11" href="_progress_bar_8hpp.html" title="ProgressBar.hpp" alt="" coords="494,155,612,181"/>
-<area shape="rect" id="node3" href="_n_c_file_desc_8hpp.html" title="NCFileDesc.hpp" alt="" coords="116,155,235,181"/>
-<area shape="rect" id="node4" href="_type_timestamp_8hpp.html" title="TypeTimestamp.hpp" alt="" coords="277,229,418,256"/>
-<area shape="rect" id="node5" href="_variable_desc_8hpp.html" title="VariableDesc.hpp" alt="" coords="128,229,253,256"/>
+<area shape="rect" id="node2" href="_dataset_desc_8hpp.html" title="DatasetDesc.hpp" alt="" coords="5,155,129,181"/>
+<area shape="rect" id="node11" href="_n_c_file_reader_8hpp.html" title="FileReaders/NCFileReader.hpp" alt="" coords="168,80,372,107"/>
+<area shape="rect" id="node14" href="_progress_bar_8hpp.html" title="Utils/ProgressBar.hpp" alt="" coords="415,80,565,107"/>
+<area shape="rect" id="node3" href="_filesystem_8hpp.html" title="Filesystem.hpp" alt="" coords="37,304,148,331"/>
+<area shape="rect" id="node4" href="_data_file_desc_8hpp.html" title="DataFileDesc.hpp" alt="" coords="189,229,316,256"/>
+<area shape="rect" id="node5" href="_type_timestamp_8hpp.html" title="TypeTimestamp.hpp" alt="" coords="173,304,314,331"/>
+<area shape="rect" id="node7" href="_variable_desc_8hpp.html" title="VariableDesc.hpp" alt="" coords="338,304,463,331"/>
+<area shape="rect" id="node12" href="_file_reader_8hpp.html" title="FileReader.hpp" alt="" coords="205,155,316,181"/>
 </map>
 </div>
 </div><table class="memberdecls">

diff --git a/docs/code-docs/_n_c_file_reader_8cpp.html b/docs/code-docs/_n_c_file_reader_8cpp.html
@@ -96,12 +96,12 @@ Include dependency graph for NCFileReader.cpp:</div>
 <div class="dyncontent">
 <div class="center"><img src="_n_c_file_reader_8cpp__incl.png" border="0" usemap="#src_2_file_readers_2_n_c_file_reader_8cpp" alt=""/></div>
 <map name="src_2_file_readers_2_n_c_file_reader_8cpp" id="src_2_file_readers_2_n_c_file_reader_8cpp">
-<area shape="rect" id="node2" href="_n_c_file_reader_8hpp.html" title="NCFileReader.hpp" alt="" coords="337,80,468,107"/>
-<area shape="rect" id="node3" href="_filesystem_8hpp.html" title="../Filesystem.hpp" alt="" coords="5,304,128,331"/>
-<area shape="rect" id="node4" href="_file_reader_8hpp.html" title="FileReader.hpp" alt="" coords="254,155,365,181"/>
-<area shape="rect" id="node9" href="_variable_desc_8hpp.html" title="VariableDesc.hpp" alt="" coords="368,304,493,331"/>
-<area shape="rect" id="node6" href="_data_file_desc_8hpp.html" title="../DataFileDesc.hpp" alt="" coords="155,229,293,256"/>
-<area shape="rect" id="node7" href="_type_timestamp_8hpp.html" title="TypeTimestamp.hpp" alt="" coords="152,304,293,331"/>
+<area shape="rect" id="node2" href="_n_c_file_reader_8hpp.html" title="NCFileReader.hpp" alt="" coords="331,80,461,107"/>
+<area shape="rect" id="node3" href="_file_reader_8hpp.html" title="FileReader.hpp" alt="" coords="205,155,315,181"/>
+<area shape="rect" id="node8" href="_variable_desc_8hpp.html" title="VariableDesc.hpp" alt="" coords="307,304,432,331"/>
+<area shape="rect" id="node4" href="_data_file_desc_8hpp.html" title="../DataFileDesc.hpp" alt="" coords="175,229,313,256"/>
+<area shape="rect" id="node5" href="_type_timestamp_8hpp.html" title="TypeTimestamp.hpp" alt="" coords="5,304,147,331"/>
+<area shape="rect" id="node7" href="_filesystem_8hpp.html" title="Filesystem.hpp" alt="" coords="171,304,282,331"/>
 </map>
 </div>
 </div><table class="memberdecls">

diff --git a/docs/code-docs/_grib2_file_reader_8cpp.html b/docs/code-docs/_grib2_file_reader_8cpp.html
@@ -93,12 +93,12 @@ Include dependency graph for Grib2FileReader.cpp:</div>
 <div class="dyncontent">
 <div class="center"><img src="_grib2_file_reader_8cpp__incl.png" border="0" usemap="#src_2_file_readers_2_grib2_file_reader_8cpp" alt=""/></div>
 <map name="src_2_file_readers_2_grib2_file_reader_8cpp" id="src_2_file_readers_2_grib2_file_reader_8cpp">
-<area shape="rect" id="node2" href="_grib2_file_reader_8hpp.html" title="Grib2FileReader.hpp" alt="" coords="75,95,216,121"/>
+<area shape="rect" id="node2" href="_grib2_file_reader_8hpp.html" title="Grib2FileReader.hpp" alt="" coords="67,95,208,121"/>
 <area shape="rect" id="node3" href="_filesystem_8hpp.html" title="../Filesystem.hpp" alt="" coords="5,319,128,345"/>
-<area shape="rect" id="node4" href="_file_reader_8hpp.html" title="FileReader.hpp" alt="" coords="167,169,278,196"/>
-<area shape="rect" id="node6" href="_data_file_desc_8hpp.html" title="../DataFileDesc.hpp" alt="" coords="153,244,292,271"/>
-<area shape="rect" id="node7" href="_type_timestamp_8hpp.html" title="TypeTimestamp.hpp" alt="" coords="152,319,293,345"/>
-<area shape="rect" id="node9" href="_variable_desc_8hpp.html" title="VariableDesc.hpp" alt="" coords="317,319,443,345"/>
+<area shape="rect" id="node4" href="_file_reader_8hpp.html" title="FileReader.hpp" alt="" coords="135,169,246,196"/>
+<area shape="rect" id="node5" href="_data_file_desc_8hpp.html" title="../DataFileDesc.hpp" alt="" coords="140,244,279,271"/>
+<area shape="rect" id="node6" href="_type_timestamp_8hpp.html" title="TypeTimestamp.hpp" alt="" coords="152,319,293,345"/>
+<area shape="rect" id="node8" href="_variable_desc_8hpp.html" title="VariableDesc.hpp" alt="" coords="317,319,443,345"/>
 </map>
 </div>
 </div><table class="memberdecls">

diff --git a/docs/code-docs/_grib2_file_reader_8hpp.html b/docs/code-docs/_grib2_file_reader_8hpp.html
@@ -96,10 +96,10 @@ Include dependency graph for Grib2FileReader.hpp:</div>
 <div class="center"><img src="_grib2_file_reader_8hpp__incl.png" border="0" usemap="#src_2_file_readers_2_grib2_file_reader_8hpp" alt=""/></div>
 <map name="src_2_file_readers_2_grib2_file_reader_8hpp" id="src_2_file_readers_2_grib2_file_reader_8hpp">
 <area shape="rect" id="node2" href="_filesystem_8hpp.html" title="../Filesystem.hpp" alt="" coords="5,244,128,271"/>
-<area shape="rect" id="node3" href="_file_reader_8hpp.html" title="FileReader.hpp" alt="" coords="167,95,278,121"/>
-<area shape="rect" id="node5" href="_data_file_desc_8hpp.html" title="../DataFileDesc.hpp" alt="" coords="153,169,292,196"/>
-<area shape="rect" id="node6" href="_type_timestamp_8hpp.html" title="TypeTimestamp.hpp" alt="" coords="152,244,293,271"/>
-<area shape="rect" id="node8" href="_variable_desc_8hpp.html" title="VariableDesc.hpp" alt="" coords="317,244,443,271"/>
+<area shape="rect" id="node3" href="_file_reader_8hpp.html" title="FileReader.hpp" alt="" coords="135,95,246,121"/>
+<area shape="rect" id="node4" href="_data_file_desc_8hpp.html" title="../DataFileDesc.hpp" alt="" coords="140,169,279,196"/>
+<area shape="rect" id="node5" href="_type_timestamp_8hpp.html" title="TypeTimestamp.hpp" alt="" coords="152,244,293,271"/>
+<area shape="rect" id="node7" href="_variable_desc_8hpp.html" title="VariableDesc.hpp" alt="" coords="317,244,443,271"/>
 </map>
 </div>
 </div><div class="textblock"><div class="dynheader">

diff --git a/docs/code-docs/_type_timestamp_8hpp.html b/docs/code-docs/_type_timestamp_8hpp.html
@@ -93,8 +93,6 @@ $(document).ready(function(){initNavTree('_type_timestamp_8hpp.html','');});
 Include dependency graph for TypeTimestamp.hpp:</div>
 <div class="dyncontent">
 <div class="center"><img src="_type_timestamp_8hpp__incl.png" border="0" usemap="#src_2_type_timestamp_8hpp" alt=""/></div>
-<map name="src_2_type_timestamp_8hpp" id="src_2_type_timestamp_8hpp">
-</map>
 </div>
 </div><div class="textblock"><div class="dynheader">
 This graph shows which files directly or indirectly include this file:</div>

diff --git a/docs/code-docs/_pretty_print_8hpp.html b/docs/code-docs/_pretty_print_8hpp.html
@@ -93,8 +93,6 @@ $(document).ready(function(){initNavTree('_pretty_print_8hpp.html','');});
 Include dependency graph for PrettyPrint.hpp:</div>
 <div class="dyncontent">
 <div class="center"><img src="_pretty_print_8hpp__incl.png" border="0" usemap="#src_2_utils_2_pretty_print_8hpp" alt=""/></div>
-<map name="src_2_utils_2_pretty_print_8hpp" id="src_2_utils_2_pretty_print_8hpp">
-</map>
 </div>
 </div>
 <p><a href="_pretty_print_8hpp_source.html">Go to the source code of this file.</a></p>
